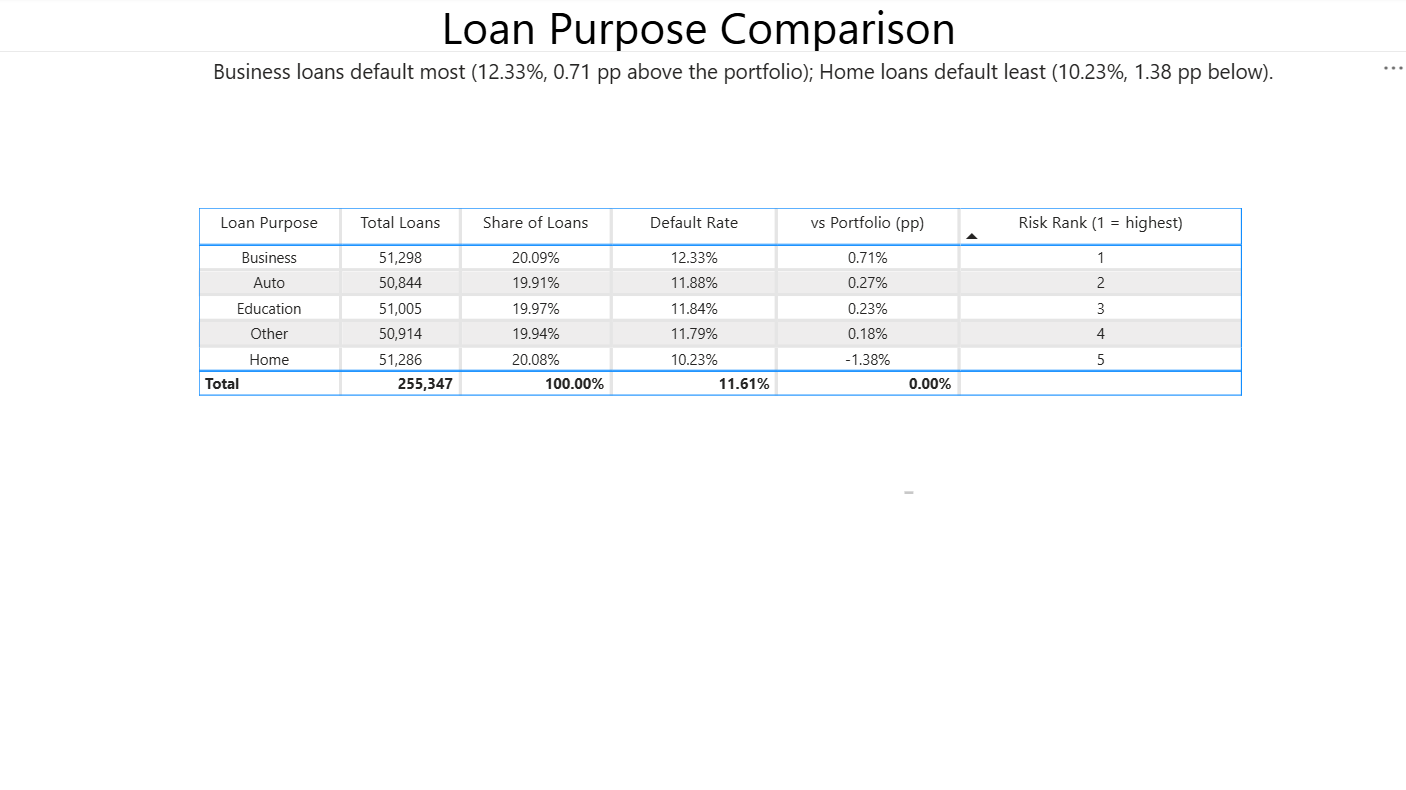
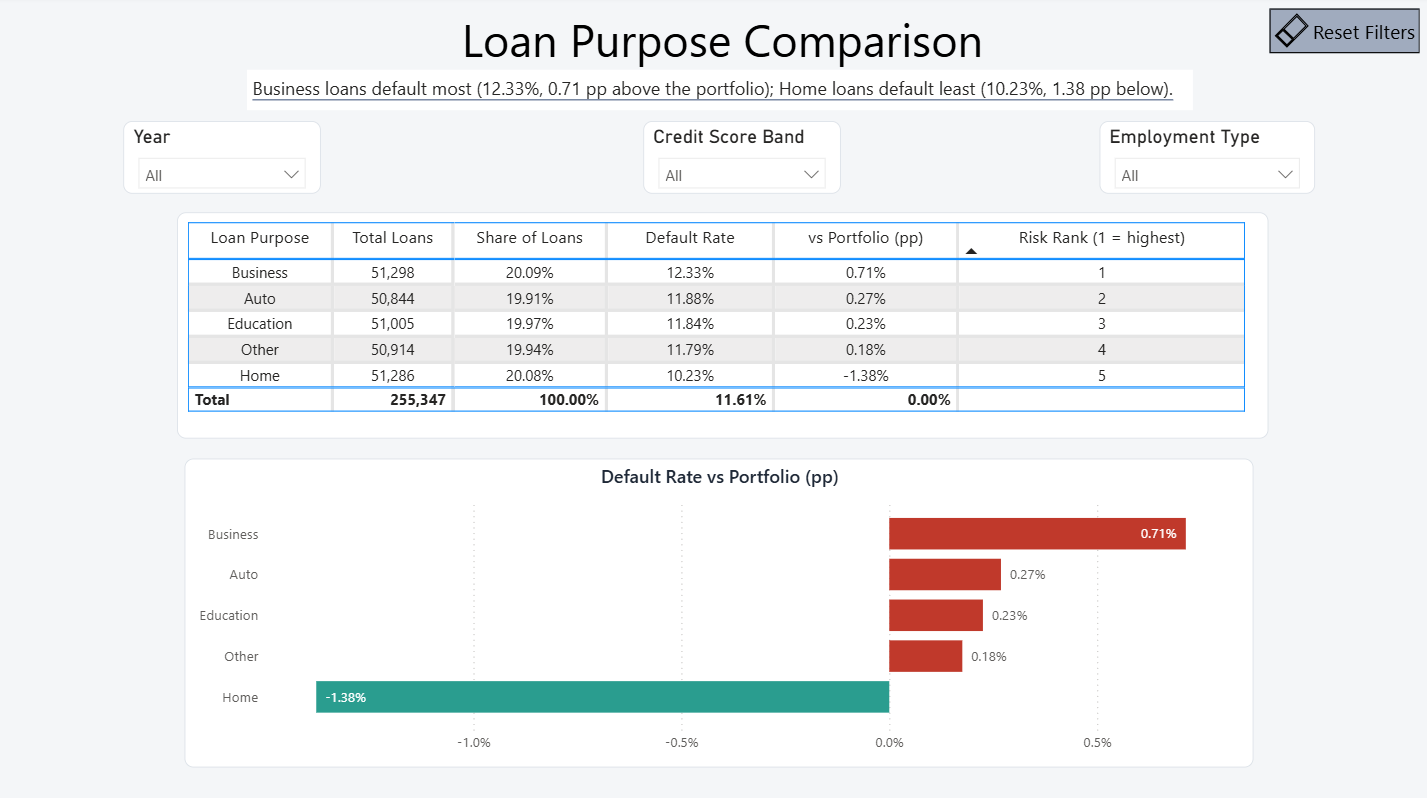
Update comparison page and RLS screenshots

diff --git a/screenshots/README.md b/screenshots/README.md
@@ -7,6 +7,6 @@
 | `03_financial_exposure.png` | Loan exposure and defaulted amount share by purpose, with the decomposition tree |
 | `04_portfolio_trends.png` | Monthly and year-over-year time-intelligence measures |
 | `05_interactive_tooltip.png` | The report-page tooltip shown on hover |
-| `06_loan_purpose_comparison.png` | Share of loans, default rate, gap to portfolio and risk rank by loan purpose |
-| `07_rls_dynamic_view_as.png` | The Purpose Managers role viewed as ops.lead@example.com (Auto and Education only) |
+| `06_loan_purpose_comparison.png` | Share of loans, default rate, gap to portfolio and risk rank by loan purpose, with the vs-portfolio bar chart |
+| `07_rls_dynamic_view_as.png` | The Purpose Managers role viewed as ops.lead@example.com (Auto and Education only, with the takeaway sentence rewritten) |
 | `08_mobile_layout.png` | Phone layout of the Executive Overview page |
